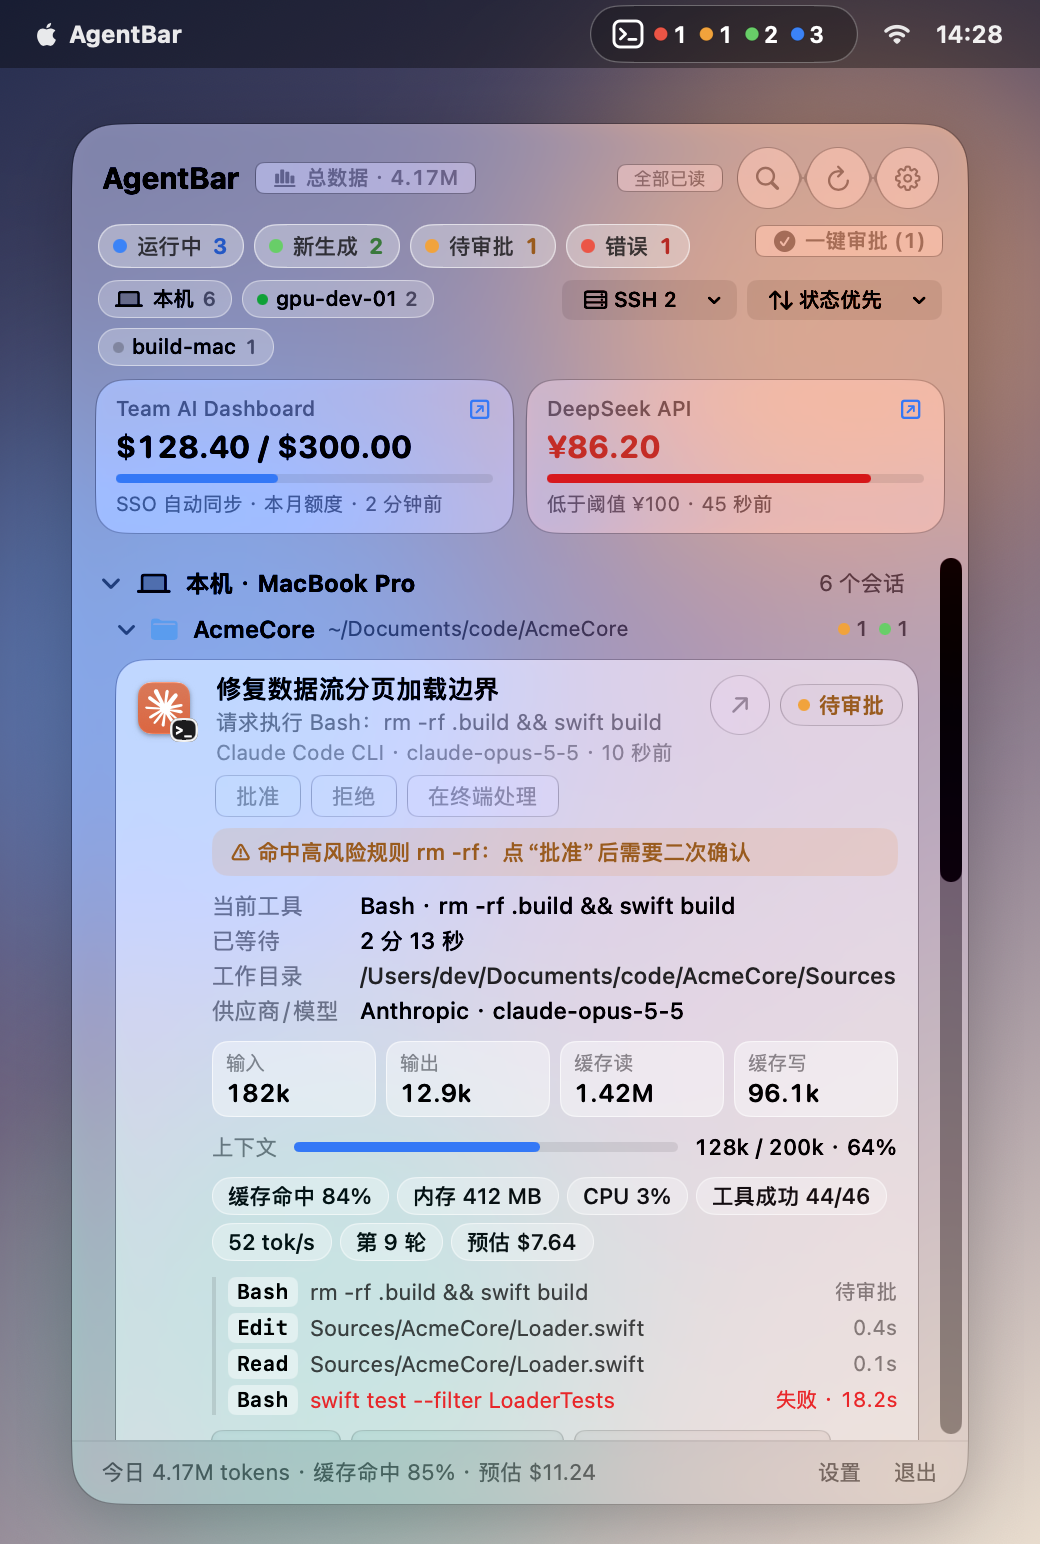
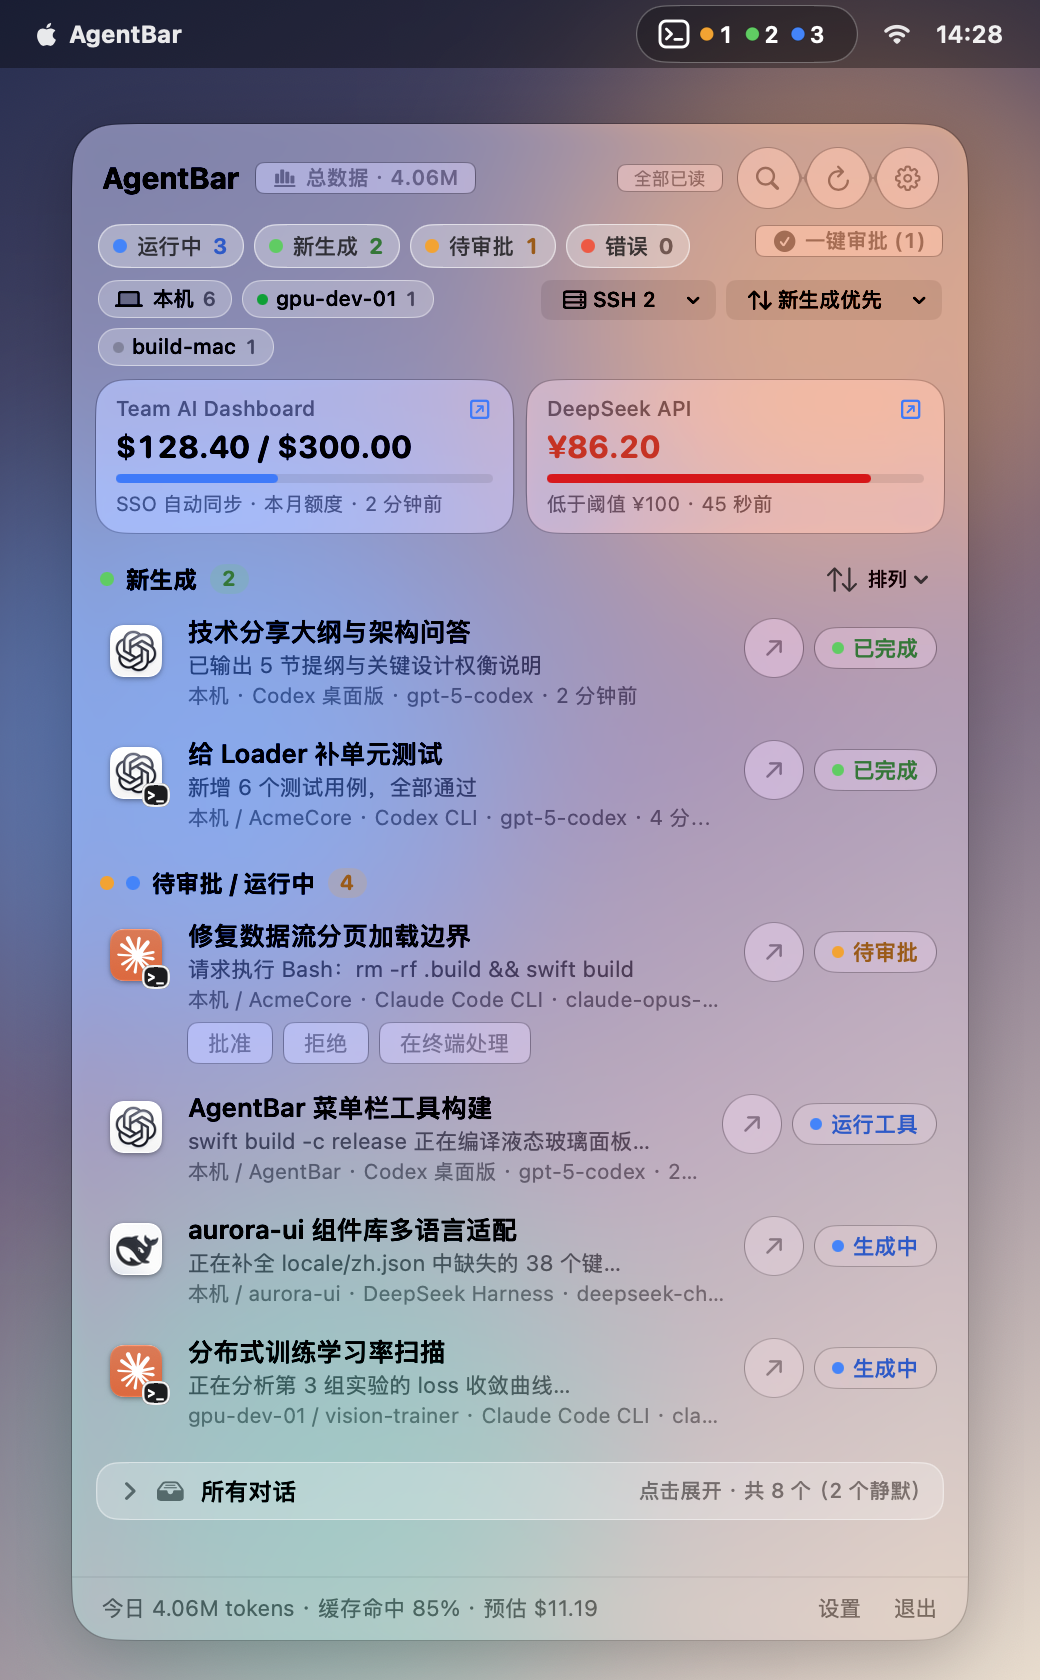
docs(readme): update README with collapsed/expanded Liquid Glass screenshots and latest features

diff --git a/Sources/AgentBarApp/AgentBarMain.swift b/Sources/AgentBarApp/AgentBarMain.swift
@@ -65,11 +65,35 @@ private enum ReadmeScreenshotRenderer {
         try? FileManager.default.createDirectory(atPath: outputDir, withIntermediateDirectories: true)
         NSApp.activate(ignoringOtherApps: true)
 
-        let sessionsModel = AppModel(showcaseOverview: false)
+        let collapsedModel = AppModel(showcaseOverview: false)
+        collapsedModel.sessions.removeAll { $0.id == "demo:ssh1:codex-fail" }
+        collapsedModel.expandedSessionIDs = []
+        collapsedModel.isAllConversationsExpanded = false
         renderShot(
-            model: sessionsModel,
-            height: 690,
+            model: collapsedModel,
+            height: 758,
             outputPath: (outputDir as NSString).appendingPathComponent("sessions-panel.png")
+        )
+
+        let expandedModel = AppModel(showcaseOverview: false)
+        expandedModel.balanceReadings = []
+        expandedModel.selectedCategory = nil
+        expandedModel.isAllConversationsExpanded = true
+        expandedModel.expandedSessionIDs = ["demo:codex:acmecore-test"]
+        expandedModel.sessions = expandedModel.sessions.filter {
+            ["demo:codex:acmecore-test", "demo:claude:acmecore", "demo:dsh:aurora-ui", "demo:cursor:data-pipeline", "demo:ssh1:claude"].contains($0.id)
+        }.map { session in
+            var copy = session
+            if copy.id == "demo:dsh:aurora-ui" {
+                copy.status = .waitingForInput
+                copy.isSeen = true
+            }
+            return copy
+        }
+        renderShot(
+            model: expandedModel,
+            height: 775,
+            outputPath: (outputDir as NSString).appendingPathComponent("sessions-expanded.png")
         )
 
         let overviewModel = AppModel(showcaseOverview: true)

diff --git a/README.md b/README.md
@@ -2,39 +2,44 @@
 
 **原生 macOS 液态玻璃（Liquid Glass）菜单栏 AI Agent 会话监控、指标统计与一键审批工具。**
 
-当你同时在本机多个项目文件夹和好几台远程 SSH 开发机上跑着 **Codex、Claude Code、DeepSeek Harness、Cursor、Trae、Antigravity** 时，很容易忘记哪个任务已经跑完、哪个卡在权限确认、哪个半路报错了。**AgentBar** 常驻在 macOS 菜单栏，用四色呼吸状态灯实时汇总本机与所有远程服务器上的 Agent 会话状态、Token 消耗、上下文占用、缓存命中率与额度看板，并支持**一键审批**与**一键精准跳回对应对话窗口**。
+当你同时在本机多个项目工程和好几台远程 SSH 开发机上跑着 **Codex、Claude Code、DeepSeek Harness、Cursor、Trae、Antigravity** 时，很容易忘记哪个任务已经生成完、哪个卡在权限审批、哪个半路报错了。**AgentBar** 常驻在 macOS 菜单栏，用四色状态灯实时汇总本机与所有远程服务器上的会话状态，**看完新内容后绿点自动消失**，默认**精简收起只聚焦重点会话**，并支持**菜单栏一键审批**与**秒级跳回对应对话窗口**。
 
 ## 效果预览
 
-| 会话实时监控 · 一键审批 · 深度指标 | 总数据看板 · 会员窗口额度 · SSO 余额同步 |
-| :---: | :---: |
-| ![AgentBar 会话监控面板](docs/images/sessions-panel.png) | ![AgentBar 总数据与额度看板](docs/images/overview-dashboard.png) |
+| 精简收起模式 · 多会话同屏聚焦 | 展开详情模式 · 遥测指标 & Markdown | 总数据看板 · 会员窗口 & 余额同步 |
+| :---: | :---: | :---: |
+| ![AgentBar 精简收起模式](docs/images/sessions-panel.png) | ![AgentBar 展开详情模式](docs/images/sessions-expanded.png) | ![AgentBar 总数据与额度看板](docs/images/overview-dashboard.png) |
 
 ---
 
 ## 核心功能与特色
 
-### 1. 原生 macOS Liquid Glass 设计 & 菜单栏四色状态灯
+### 1. 原生 Liquid Glass 设计 · 四色状态灯 & 看完自动消绿点
 - **纯正液态玻璃质感**：基于 macOS 原生 `NSGlassEffectView` 与 SwiftUI 构建，去除传统窗口直角灰框，窗口高度随会话数量平滑自适应，会话较多时自动限制最大高度并支持丝滑滚动。
 - **菜单栏一眼掌握全局**：菜单栏胶囊图标实时显示各状态会话计数，支持面板内点击对应颜色胶囊快速筛选：
   - 🔵 **蓝色（运行中）**：正在流式生成回复或调用工具；
   - 🟢 **绿色（新生成）**：任务刚刚生成完成、尚未点开查看；
   - 🟡 **黄色（待审批）**：卡在工具调用 / 命令执行权限请求，等待你拍板；
   - 🔴 **红色（错误）**：遇到 API 限流（429）、请求超时或执行异常。
+- **看完自动消绿点（无需手动点已读）**：自动同步 Codex 桌面端原生线程未读状态，并智能检测 VS Code / Cursor / Trae / Antigravity（含 `Remote-SSH` 远端工作区）、本机/远端交互终端及菜单栏面板视口浏览状态——只要你查看过新生成的内容，绿点便会自动消失；同一会话后续完成新一轮生成时又会自动重新亮起绿灯提醒。
 
-### 2. 全工具生态 & `~/.ssh/config` 远程服务器自动聚合
+### 2. 收起 & 展开双模式 · 自定义焦点排列顺序
+- **默认只看重点，告别噪音**：面板默认按 **「新生成 → 待审批 / 运行中」** 分区精简展示当前真正需要关注的会话（每条自动附带所属 `服务器 / 项目` 标记），而大量暂时无需关注的静默历史对话默认收拢在底部的 **「所有对话（点击展开）」** 折叠栏中。
+- **自由切换排列方式**：支持一键切换为 `新生成 → 待审批 / 运行中`、`待审批 / 运行中 → 新生成`、`待审批 → 新生成 → 运行中（独立三栏）` 或 `按服务器 / 项目目录分组`。
+
+### 3. 全工具生态 & `~/.ssh/config` 远程服务器自动聚合
 - **主流 Coding Agent 开箱即用**：支持 **Codex（桌面版 & CLI）**、**Claude Code（CLI & VS Code / Cursor 扩展）**、**DeepSeek Harness**、**Cursor**、**Trae**、**Antigravity 2.0**（自动读取本机摘要库与运行态进程），并自动为不同工具区分专属图标与 CLI 角标。
 - **零配置发现远程 SSH 会话**：自动解析本机 `~/.ssh/config`（支持 `Include` 嵌套配置、跳板机与连接复用），并发流式探测远程服务器上的活跃会话与进程状态。
 - **清爽的层级归纳**：一级按 **本机 / SSH 服务器** 分组（支持置顶、自定义排序与顶部主机快捷胶囊过滤），二级自动将真实工程合并到项目目录，临时对话或无特定目录的会话自动平铺为散会话，告别满屏单条空文件夹。
 
-### 3. 详尽的会话运行指标与效率透视
+### 4. 详尽的会话运行指标与原生 Markdown 预览
 点开任意一条会话，即可查看完整的运行遥测数据：
 - **Token 明细与成本估算**：实时拆分输入（Input）、输出（Output）、缓存读取（Cache Read）、缓存写入（Cache Write）与推理（Reasoning）Token，并根据供应商与模型自动估算等效开销。
 - **上下文窗口（Context Window）进度条**：直观展示当前上下文已用比例（如 `128k / 200k · 64%`），超过 85% 自动高亮预警，还统计自动 Compact 压缩次数。
 - **Agent 工程指标**：Prompt **缓存命中率**（Cache Hit %）、工具调用时间线与**工具成功率**、输出吞吐速率（`tok/s`）、对话轮次，以及本地/远端 Agent 进程的**物理内存（Memory）与 CPU 占用率**。
 - **面板内原生 Markdown 渲染**：已完成的回复可直接在菜单栏内展开预览格式化 Markdown（标题、代码块、表格），也可一键复制或弹出独立阅读窗口。
 
-### 4. 一键审批 & 精准跳转到对应对话/窗口
+### 5. 一键审批 & 精准跳转到对应对话/窗口
 - **菜单栏一键审批**：内置轻量 `agentbar-hook`，面板内可一键安装 Claude Code 权限审批 Hook；遇到待审批请求时直接点 **“一键审批”** 批量放行，若命中 `rm -rf`、`git push --force`、`sudo` 等高危命令则自动弹出二次确认保护。
 - **点哪条就跳回哪条**：每条会话右侧常驻 `↗` 一键跳转按钮（也支持 `⌘ + 单击` 或右键菜单选择打开方式）：
   - **Codex 桌面版**：通过 `codex://threads/<sessionId>` Deep Link 直接切到 Codex 里对应的那条具体对话；
@@ -42,7 +47,7 @@
   - **Antigravity / Trae 等桌面端**：点击直接唤醒或切回对应桌面应用；
   - **终端 CLI（本机 & 远程 SSH）**：自动定位活跃 iTerm2 / Terminal `tty` 标签页，或打开终端自动 `cd` 进入目标目录执行 `claude --resume` / `codex resume` 恢复对话。
 
-### 5. 总数据看板 & 自动刷新的额度 Dashboard
+### 6. 总数据看板 & 自动刷新的额度 Dashboard
 - **会员与周期额度自动识别**：自动读取本机登录态，展示 **ChatGPT Plus / Pro（5h 窗口 & 7d 周额度进度条）**、Claude、DeepSeek 与 **Antigravity**（本机安装登录 `agy` 1.1.11+ CLI 后自动读取套餐名称、各模型组额度与重置时间）实时消耗与会话统计。
 - **支持自定义 Dashboard 后台自动同步**：可添加团队内部 **SSO 网页看板**（内置智能登录窗口与 DOM 额度自动提取）、**JSON API**（如 DeepSeek API Key 余额，Token 安全存入 macOS Keychain）或**自定义 Shell 脚本**，支持每 **1 / 3 / 5 / 15 分钟**在后台静默自动刷新。
 
@@ -108,8 +113,9 @@ AgentBar/
 │   │   └── PricingAndMetrics.swift   # 模型定价估算与上下文窗口目录
 │   ├── AgentBarApp/                  # macOS 菜单栏原生 Liquid Glass 界面
 │   │   ├── StatusBarController.swift # 菜单栏多色胶囊与无边框透明悬浮面板
-│   │   ├── PanelView.swift           # 主面板、流式筛选栏与主机/目录树
+│   │   ├── PanelView.swift           # 焦点状态分区、流式筛选栏与可折叠全部对话树
 │   │   ├── SessionRowView.swift      # 会话卡片、展开遥测详情与 Markdown 预览
+│   │   ├── ActiveSessionViewDetector.swift # 前台 IDE / 终端活跃驻留自动已读检测
 │   │   ├── OverviewDashboardView.swift # 总数据看板与订阅额度视图
 │   │   └── JumpService.swift         # Codex Deep Link / Remote-SSH IDE / 终端精准跳转
 │   └── agentbar-hook/                # 轻量审批事件桥接 CLI
